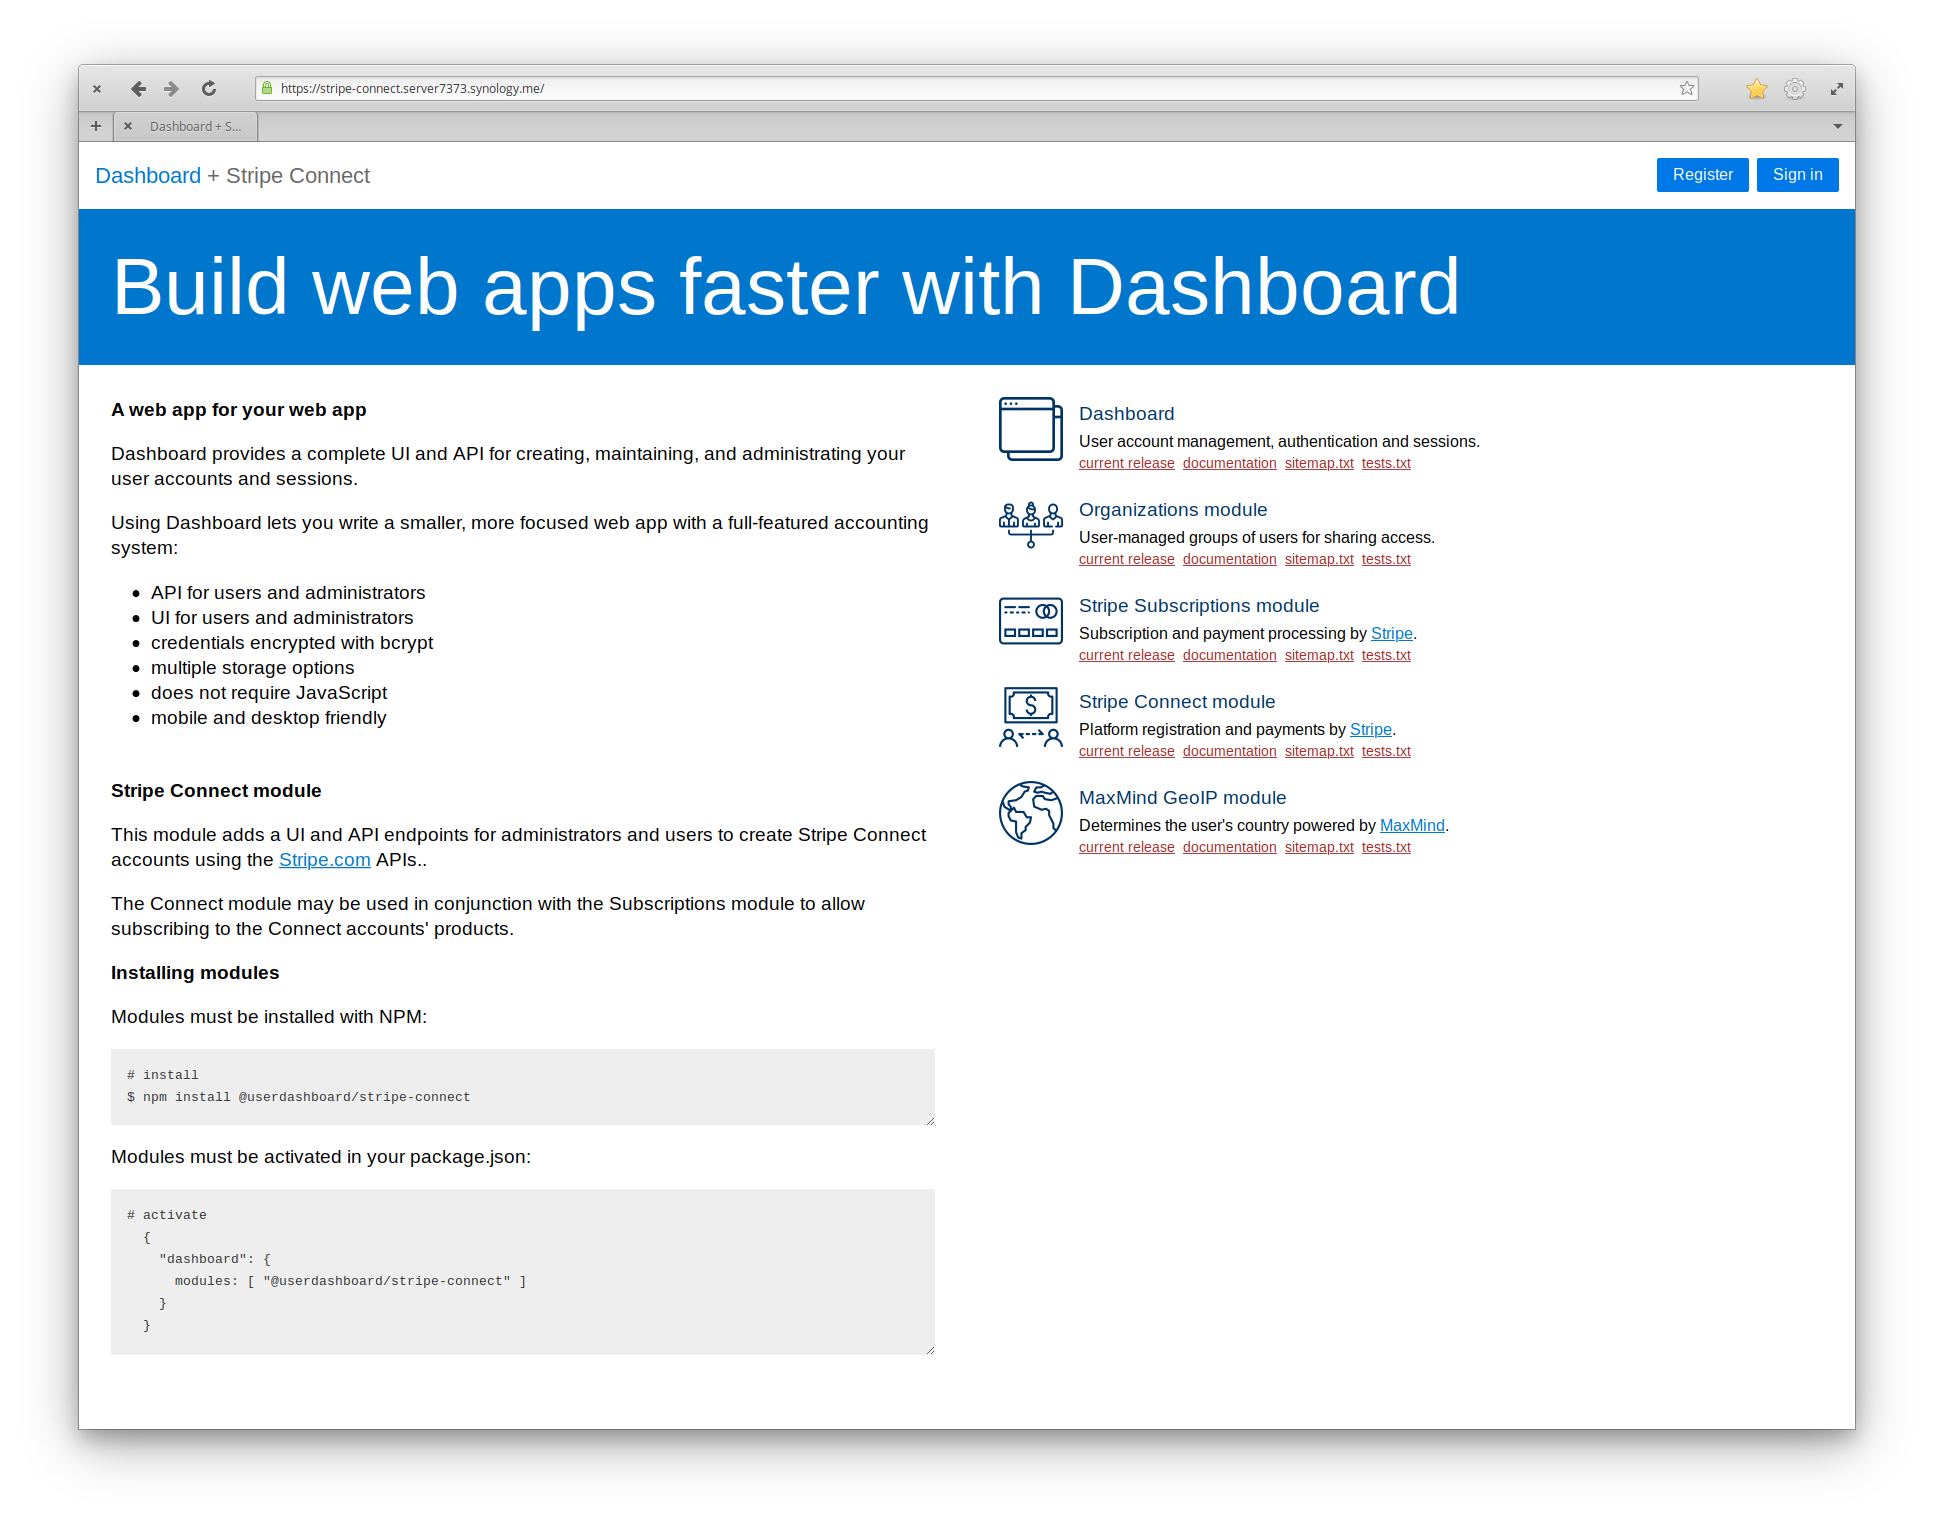
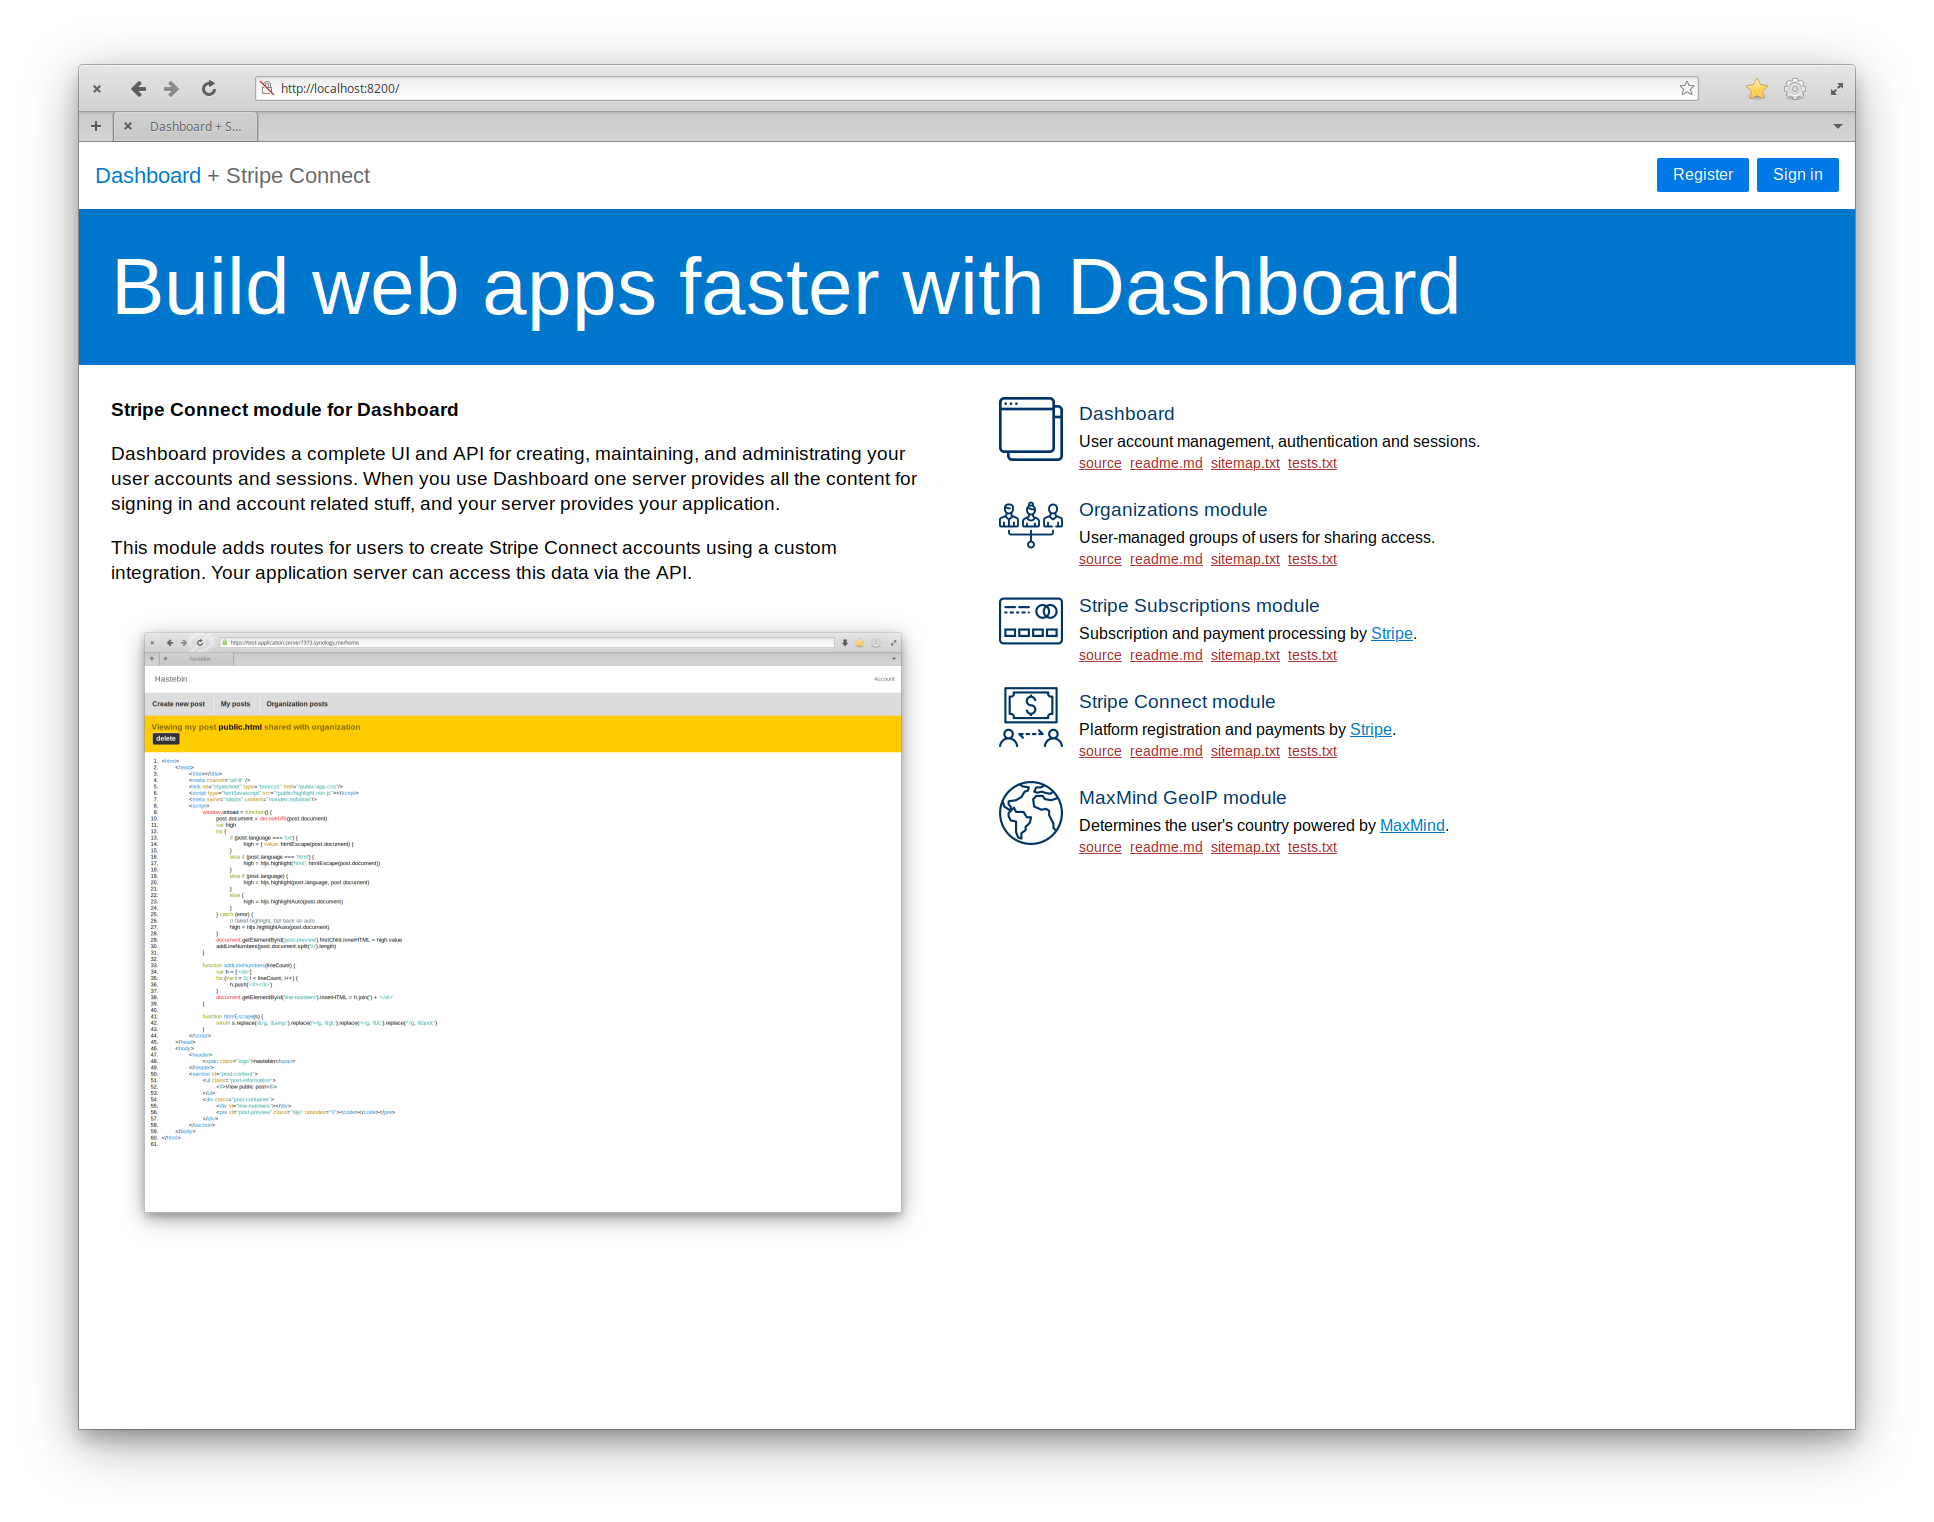
Updated documentation and demo index page

diff --git a/src/www/index.html b/src/www/index.html
@@ -46,31 +46,10 @@
     <div class="pure-g">
       <div class="pure-u-1-2">
         <div class="information">
-          <h3>A web app for your web app</h3>
-          <p>Dashboard provides a complete UI and API for creating, maintaining, and administrating your user accounts and sessions.</p>
-          <p>Using Dashboard lets you write a smaller, more focused web app with a full-featured accounting system:</p>
-          <ul>
-            <li>API for users and administrators</li>
-            <li>UI for users and administrators</li>
-            <li>credentials encrypted with bcrypt</li>
-            <li>multiple storage options</li>
-            <li>does not require JavaScript</li>
-            <li>mobile and desktop friendly</li>
-          </ul>
-          <h3>Stripe Connect module</h3>
-          <p>This module adds a UI and API endpoints for administrators and users to create Stripe Connect accounts using the <a href="https://stripe.com/">Stripe.com</a> APIs.</a>.</p>
-          <p>The Connect module may be used in conjunction with the Subscriptions module to allow subscribing to the Connect accounts' products.</p>
-          <h3>Installing modules</h3>
-          <p>Modules must be installed with NPM:</p>
-          <div class="code dashboard"><textarea># install
-$ npm install @userdashboard/stripe-connect</textarea></div>
-          <p>Modules must be activated in your package.json:</p>
-<div class="code package"><textarea># activate
-  {
-    "dashboard": {
-      modules: [ "@userdashboard/stripe-connect" ]
-    }
-  }</textarea></div>
+          <h3>Stripe Connect module for Dashboard</h3>
+          <p>Dashboard provides a complete UI and API for creating, maintaining, and administrating your user accounts and sessions. When you use Dashboard one server provides all the content for signing in and account related stuff, and your server provides your application.</p>
+          <p>This module adds routes for users to create Stripe Connect accounts using a custom integration.  Your application server can access this data via the API.</p>
+          <img style="max-width: 100%" src="/public/0-example-app.png" />
         </div>
       </div>
       <div class="pure-u-1-2">
@@ -82,8 +61,8 @@ $ npm install @userdashboard/stripe-connect</textarea></div>
                 <h3>Dashboard</h3>
                 <p>User account management, authentication and sessions.</p>
                 <div>
-                  <a href="https://github.com/userdashboard/dashboard">current release</a>
-                  <a href="https://github.com/userdashboard/dashboard/wiki">documentation</a>
+                  <a href="https://github.com/userdashboard/dashboard">source</a>
+                  <a href="https://github.com/userdashboard/dashboard/blob/master/readme.md">readme.md</a>
                   <a href="https://github.com/userdashboard/dashboard/blob/master/sitemap.txt">sitemap.txt</a>
                   <a href="https://github.com/userdashboard/dashboard/blob/master/tests.txt">tests.txt</a>
                 </div>
@@ -95,8 +74,8 @@ $ npm install @userdashboard/stripe-connect</textarea></div>
                 <h3>Organizations module</h3>
                 <p>User-managed groups of users for sharing access.</p>
                 <div>
-                    <a href="https://github.com/userdashboard/organizations">current release</a>
-                    <a href="https://github.com/userdashboard/organizations/wiki">documentation</a>
+                    <a href="https://github.com/userdashboard/organizations">source</a>
+                    <a href="https://github.com/userdashboard/organizations/blob/master/readme.md">readme.md</a>
                     <a href="https://github.com/userdashboard/organizations/blob/master/sitemap.txt">sitemap.txt</a>
                     <a href="https://github.com/userdashboard/organizations/blob/master/tests.txt">tests.txt</a>
                 </div>
@@ -108,8 +87,8 @@ $ npm install @userdashboard/stripe-connect</textarea></div>
                 <h3>Stripe Subscriptions module</h3>
                 <p>Subscription and payment processing by <a href="https://stripe.com">Stripe</a>.</p>
                 <div>
-                    <a href="https://github.com/userdashboard/stripe-subscriptions">current release</a>
-                    <a href="https://github.com/userdashboard/stripe-subscriptions/wiki">documentation</a>
+                    <a href="https://github.com/userdashboard/stripe-subscriptions">source</a>
+                    <a href="https://github.com/userdashboard/stripe-subscriptions/blob/master/readme.md">readme.md</a>
                     <a href="https://github.com/userdashboard/stripe-subscriptions/blob/master/sitemap.txt">sitemap.txt</a>
                     <a href="https://github.com/userdashboard/stripe-subscriptions/blob/master/tests.txt">tests.txt</a>
                 </div>
@@ -121,8 +100,8 @@ $ npm install @userdashboard/stripe-connect</textarea></div>
                 <h3>Stripe Connect module</h3>
                 <p>Platform registration and payments by <a href="https://stripe.com">Stripe</a>.</p>
                 <div>
-                    <a href="https://github.com/userdashboard/stripe-connect">current release</a>
-                    <a href="https://github.com/userdashboard/stripe-connect/wiki">documentation</a>
+                    <a href="https://github.com/userdashboard/stripe-connect">source</a>
+                    <a href="https://github.com/userdashboard/stripe-connect/blob/master/readme.md">readme.md</a>
                     <a href="https://github.com/userdashboard/stripe-connect/blob/master/sitemap.txt">sitemap.txt</a>
                     <a href="https://github.com/userdashboard/stripe-connect/blob/master/tests.txt">tests.txt</a>
                 </div>
@@ -134,8 +113,8 @@ $ npm install @userdashboard/stripe-connect</textarea></div>
                 <h3>MaxMind GeoIP module</h3>
                 <p>Determines the user's country powered by <a href="https://maxmind.com">MaxMind</a>.</p>
                 <div>
-                  <a href="https://github.com/userdashboard/maxmind-geoip">current release</a>
-                  <a href="https://github.com/userdashboard/maxmind-geoip/wiki">documentation</a>
+                  <a href="https://github.com/userdashboard/maxmind-geoip">source</a>
+                  <a href="https://github.com/userdashboard/maxmind/geoip/blob/master/readme.md">readme.md</a>
                   <a href="https://github.com/userdashboard/maxmind-geoip/blob/master/sitemap.txt">sitemap.txt</a>
                   <a href="https://github.com/userdashboard/maxmind-geoip/blob/master/tests.txt">tests.txt</a>
                 </div>
